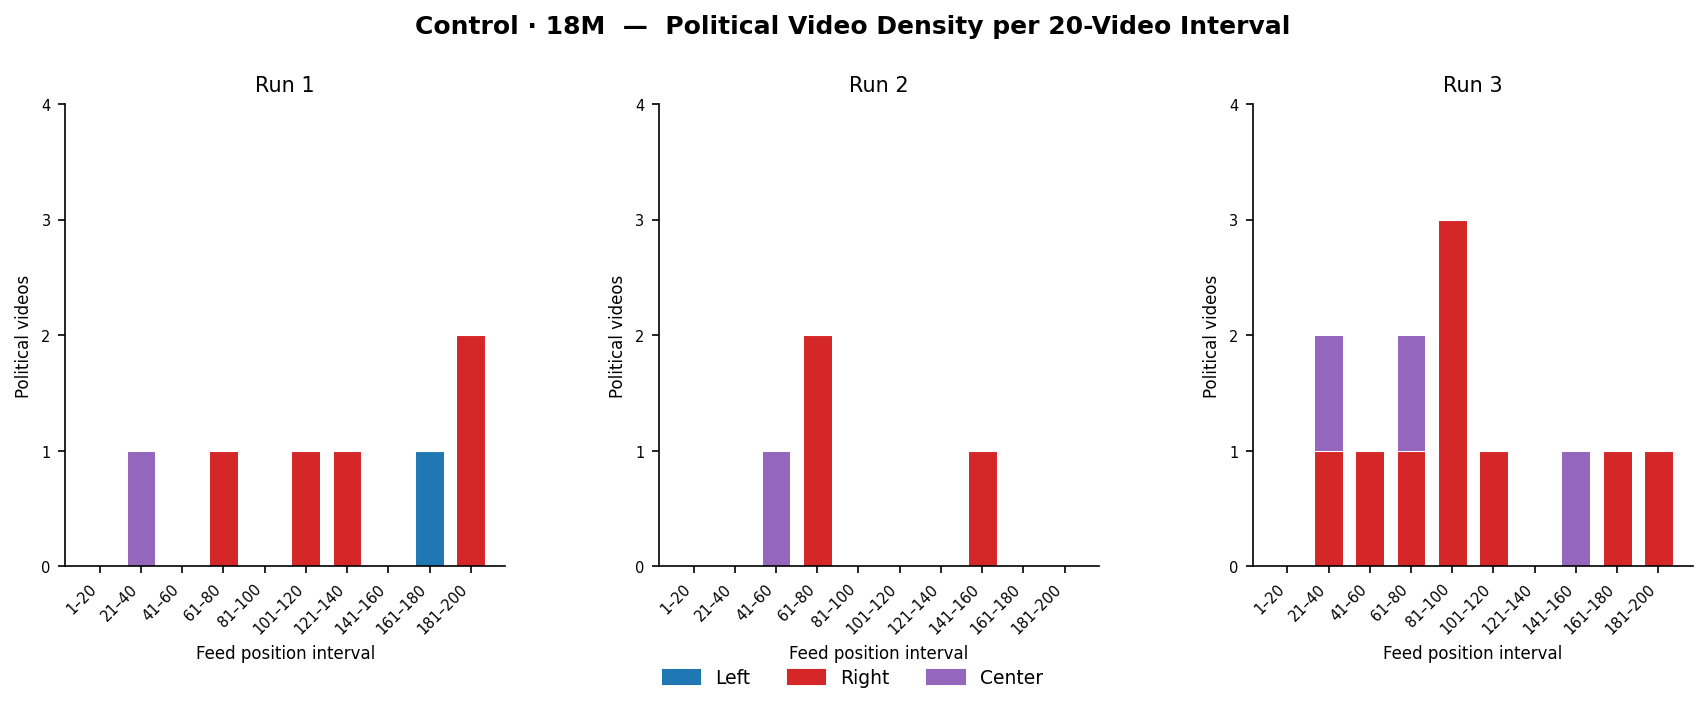
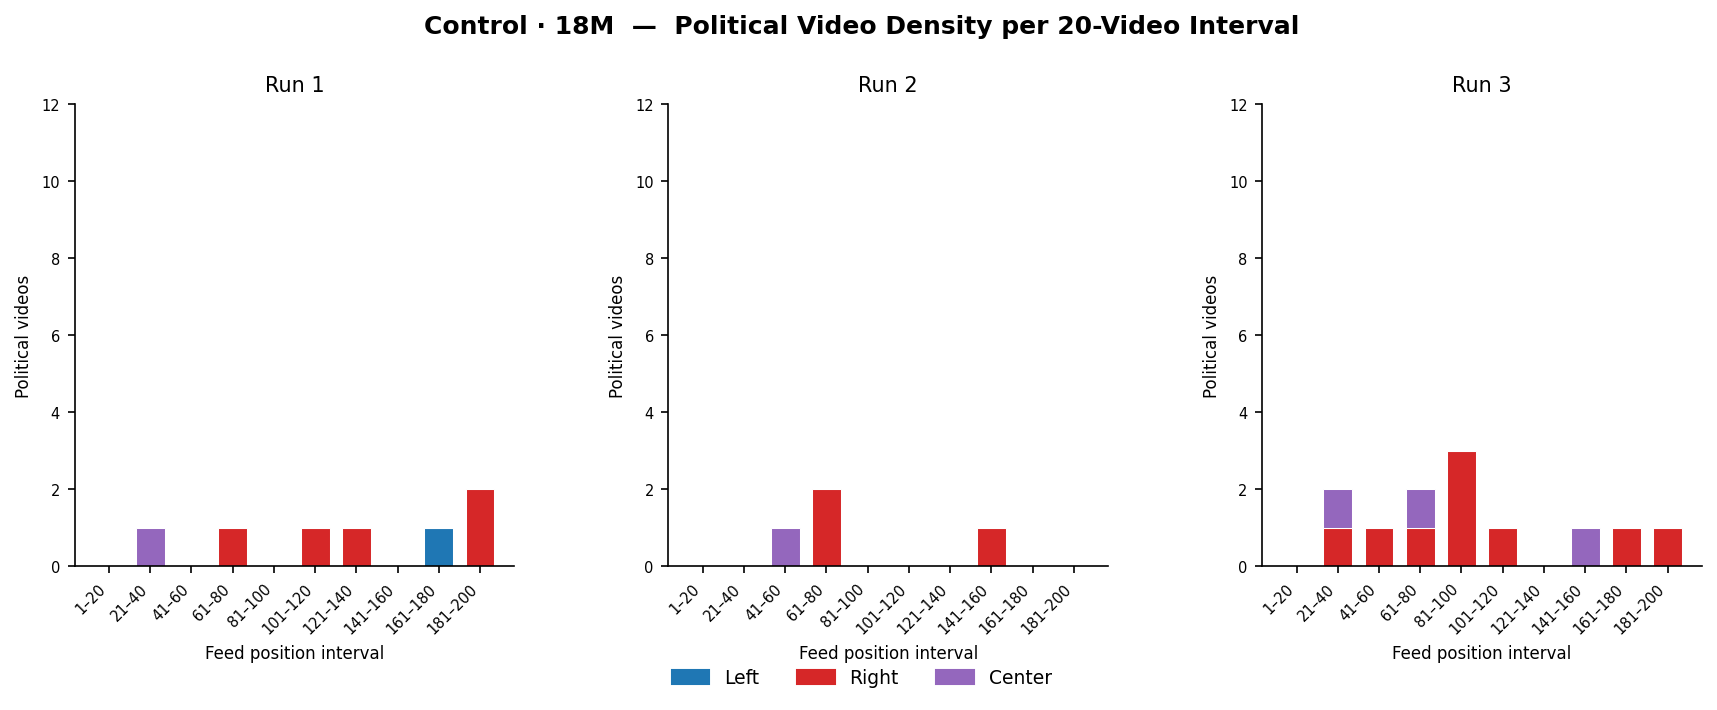
Adjusted for consistent scale of 12 in bar charts

diff --git a/political_bar_charts.py b/political_bar_charts.py
@@ -142,9 +142,8 @@ def make_chart(age: str, condition: str, stem: str, leanings: dict[str, str]):
     for ax in axes[len(runs):]:
         ax.set_visible(False)
 
-    # Uniform y scale across the 3 subplots for this group
     for ax in axes[:len(runs)]:
-        ax.set_ylim(0, max(max_y + 1, 2))
+        ax.set_ylim(0, 12)
 
     # Shared legend
     legend_handles = [
